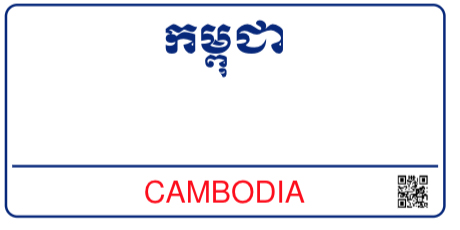
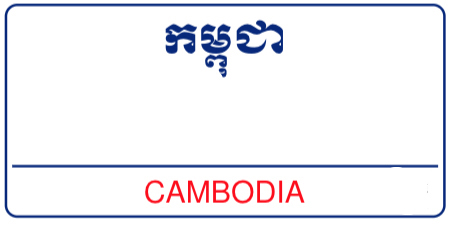
QR code Successfully

Changed region(s): [[0.8522, 0.7609, 0.9435, 0.913], [0.8522, 0.7, 0.8826, 0.7304]]

diff --git a/fn/writeImg.js b/fn/writeImg.js
@@ -1,18 +1,25 @@
 const Jimp = require("jimp");
 const QRcode = require("./QRcode.js");
-var fileName = "./img/index.jpg";
-const qr = QRcode("asd");
-let a;
+var fileName = "./img/index.png";
+//import mergeImg from "merge-img";
+const mergeImg = require("merge-img");
+var fs = require("fs");
+const mergeImages = require("merge-images");
+var images = require("images");
+
+//let a = fs.readFile("/Users/user/Desktop/Plate-number/public/img/qr.png");
+
 // qr.then(function(qr) {
 //   a = qr;
 //   console.log(a);
 // });
-//////////QR code//////////
-qr.then(function(qr) {
-  a = qr;
-  console.log(a);
-});
-
+// const a = fs.readFile(
+//   "/Users/user/Desktop/Plate-number/public/img/qr.png",
+//   (err, data) => {
+//     console.log(data);
+//   }
+// );
+let a;
 const writeImg1 = function writeImg(newName) {
   Jimp.read(fileName)
     .then(function(image) {
@@ -40,7 +47,90 @@ const writeImg1 = function writeImg(newName) {
 };
 
 const writeImg2 = function writeImg(newName, url) {
-  Jimp.read(fileName)
+  //////////QR code//////////
+
+  // console.log(url);
+  // const qr = QRcode(url);
+  // qr.then(function(qr) {
+  //   a = qr;
+  images(fileName) //Load image from file
+    //加载图像文件
+    .size(1000) //Geometric scaling the image to 400 pixels width
+    //等比缩放图像到400像素宽
+    .draw(
+      images("/Users/user/Desktop/Plate-number/public/img/qr.png"),
+      700,
+      100
+    ) //Drawn logo at coordinates (10,10)
+    //在(10,10)处绘制Logo
+    .save("/Users/user/Desktop/Plate-number/img-temp/hello.png", {
+      //Save the image to a file, with the quality of 50
+      quality: 1000 //保存图片到文件,图片质量为50
+    });
+  //Read 1
+  Jimp.read("/Users/user/Desktop/Plate-number/img-temp/hello.png")
+    .then(function(image) {
+      loadedImage = image;
+      return Jimp.loadFont(Jimp.FONT_SANS_64_BLACK);
+    })
+    .then(function(font) {
+      var textWidth = Jimp.measureText(font, newName);
+      var textHight = Jimp.measureTextHeight(font, newName);
+      //console.log(a);
+      loadedImage
+        .print(
+          font,
+          loadedImage.bitmap.width / 2 - textWidth / 2,
+          loadedImage.bitmap.height / 2 - textHight / 2,
+          { text: newName },
+          textWidth,
+          textHight
+        )
+        .write("/Users/user/Desktop/Plate-number/img-temp/hello.png");
+    });
+};
+
+/* mergeImages([
+        {
+          src: "/Users/user/Desktop/Plate-number/img-temp/hello.png",
+          x: 0,
+          y: 80,
+          opacity: 0.7,
+          direction: true
+        },
+        {
+          src: "/Users/user/Desktop/Plate-number/public/img/qr copy.png",
+          x: 0,
+          y: 30,
+          opacity: 0.7,
+          direction: true
+        }
+      ]).then(img => {
+        // Save image as file
+        console.log(img);
+        img.write("/Users/user/Desktop/Plate-number/img-temp/hello.png", () =>
+          console.log("done")
+        );
+      });*/
+
+//Again
+/*
+    Jimp.read("/Users/user/Desktop/Plate-number/img-temp/hello.jpg").then(
+      function(image) {
+        console.log(image);
+        image
+          .composite(
+            "/Users/user/Desktop/Plate-number/public/img/qr.png",
+            100,
+            0
+          )
+          .write("./img-temp/hello.jpg");
+      
+    );
+  });
+};*/
+
+/*Jimp.read(fileName)
     .then(function(image) {
       loadedImage = image;
       return Jimp.loadFont(Jimp.FONT_SANS_32_BLACK);
@@ -63,7 +153,29 @@ const writeImg2 = function writeImg(newName, url) {
     .catch(function(err) {
       console.error(err);
     });
-};
+;*/
 
+/*
+ images("/Users/user/Desktop/Plate-number/img-temp/hello.png") //Load image from file
+    //加载图像文件
+    .size(1000) //Geometric scaling the image to 400 pixels width
+    //等比缩放图像到400像素宽
+    .draw(
+      images("/Users/user/Desktop/Plate-number/public/img/qr.png"),
+      700,
+      100
+    ) //Drawn logo at coordinates (10,10)
+    //在(10,10)处绘制Logo
+    .save(
+      "/Users/user/Desktop/Plate-number/img-temp/hello.png",
+      {
+        //Save the image to a file, with the quality of 50
+        quality: 1000 //保存图片到文件,图片质量为50
+      },
+      () => {
+        console.log("Sucess");
+      }
+    );
+*/
 module.exports.writeImg1 = writeImg1;
 module.exports.writeImg2 = writeImg2;

diff --git a/routes/post.js b/routes/post.js
@@ -44,14 +44,17 @@ router.post("/name", async (req, res) => {
 });
 
 router.post("/buy", auth, async (req, res) => {
+  //testing only
+  name = "yong";
+
   const token = req.header("auth-token");
   var decoded = jwt.verify(token, process.env.TOKEN_SECRET);
   console.log(decoded);
   const user = await User.findOne({ _id: decoded._id });
   console.log(user);
   //QRcode URL
-  const qrURL = `http://localhost:3000/QR/?_userId=${user._id}&buyer_name=${user.username}&plate_number=${name}&phone=${user.phone}&DOB=${User.DOB}`;
-  writeImg(name.toUpperCase(), qrURL);
+  const qrURL = `http://localhost:3000/QR/?_userId=${user._id}&buyer_name=${user.username}&plate_number=${name}&phone=${user.phone}&DOB=${user.DOB}`;
+  writeImg.writeImg2(name.toUpperCase(), qrURL);
   const buyer = new Buyer({
     _userId: user._id,
     buyer_name: user.username,

diff --git a/fn/QRcode.js b/fn/QRcode.js
@@ -1,5 +1,17 @@
 const QRCode = require("qrcode");
 
+// const generateQR = async text => {
+//   try {
+//     const qr = await QRCode.toFile(
+//       "/Users/user/Desktop/Plate-number/public/img/qr.png",
+//       text
+//     );
+//     return qr;
+//   } catch (err) {
+//     console.error(err);
+//   }
+// };
+
 const generateQR = async text => {
   try {
     const qr = await QRCode.toString(text, { errorCorrectionLevel: "M" });
@@ -9,6 +21,14 @@ const generateQR = async text => {
   }
 };
 
+// const generateQR = async text => {
+//   try {
+//     const qr = await QRCode.toDataURL(text, { errorCorrectionLevel: "M" });
+//     return qr;
+//   } catch (err) {
+//     console.error(err);
+//   }
+// };
 ////////////
 
 // generateQR(
